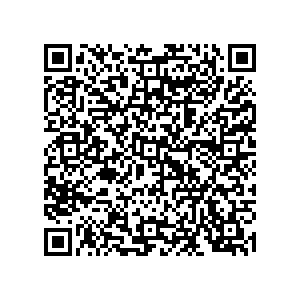
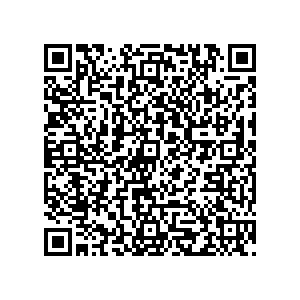
reserveEquipment modified

Changed region(s): [[0.15, 0.12, 0.87, 0.87]]

diff --git a/ISA-project/src/main/java/com/example/ISAproject/model/Reservation.java b/ISA-project/src/main/java/com/example/ISAproject/model/Reservation.java
@@ -14,6 +14,7 @@ import javax.persistence.GenerationType;
 import javax.persistence.Id;
 import javax.persistence.JoinColumn;
 import javax.persistence.JoinTable;
+import javax.persistence.ManyToMany;
 import javax.persistence.ManyToOne;
 import javax.persistence.MapsId;
 import javax.persistence.OneToMany;
@@ -31,18 +32,18 @@ public class Reservation {
 	@Column(name = "status", nullable = false)
 	private ReservationStatus status;
 	
-	@JsonIgnore 
-	@OneToMany
+	//@JsonIgnore 
+	@ManyToMany
 	@JoinTable(name = "reservation_equipment", joinColumns = @JoinColumn(name = "reservation_id", referencedColumnName = "id"),
 		inverseJoinColumns = @JoinColumn(name = "equipment_id", referencedColumnName = "id"))
 	private Set<Equipment> equipment  = new HashSet<Equipment>();
 	
-	@JsonIgnore 
+	//@JsonIgnore 
 	@OneToOne
     @JoinColumn(name = "appointment_id")
 	private Appointment appointment;
 	
-	@JsonIgnore
+	//@JsonIgnore
     @ManyToOne
     @JoinTable(name = "reservation_user", joinColumns = @JoinColumn(name = "reservation_id", referencedColumnName = "id"),
 	inverseJoinColumns = @JoinColumn(name = "user_id", referencedColumnName = "id"))

diff --git a/ISA-project/src/main/java/com/example/ISAproject/service/ReservationService.java b/ISA-project/src/main/java/com/example/ISAproject/service/ReservationService.java
@@ -35,17 +35,15 @@ public class ReservationService {
 	private AppointmentRepository appointmentRepository;
 	
 	
-	public Reservation reserveEquipment(Long equipmentId, Long appointmentId, Long userId) {        
-        Equipment equipment = equipmentRepository.findById(equipmentId).orElse(null);
+	public Reservation reserveEquipment(List<Long> equipmentIds, Long appointmentId, Long userId) {        
+		List<Equipment> equipmentList = equipmentRepository.findAllById(equipmentIds);
         Appointment appointment = appointmentRepository.findById(appointmentId).orElse(null);
         User user = userRepository.findById(userId).orElse(null);
         
         Reservation reservation = new Reservation();
         
         reservation.setStatus(ReservationStatus.PENDING);
-        Set<Equipment> equipmentList = new HashSet<Equipment>();
-        equipmentList.add(equipment);
-        reservation.setEquipment(equipmentList);
+        reservation.setEquipment(new HashSet<>(equipmentList));
         reservation.setAppointment(appointment);
         appointment.setIsFree(false);
         reservation.setUser(user);

diff --git a/ISA-project/src/main/java/com/example/ISAproject/controller/ReservationController.java b/ISA-project/src/main/java/com/example/ISAproject/controller/ReservationController.java
@@ -33,11 +33,11 @@ public class ReservationController {
 	@Autowired
 	private ReservationService reservationService;
 	
-	@PostMapping("reserveEquipment/{equipmentId}/{appointmentId}/{userId}")
-    public ResponseEntity<String> reserveEquipment(@PathVariable Long equipmentId, @PathVariable Long appointmentId,
+	@PostMapping("reserveEquipment/{equipmentIds}/{appointmentId}/{userId}")
+    public ResponseEntity<String> reserveEquipment(@PathVariable List<Long> equipmentIds, @PathVariable Long appointmentId,
             @PathVariable Long userId) {
 		
-		Reservation savedReservation = reservationService.reserveEquipment(equipmentId, appointmentId, userId);
+		Reservation savedReservation = reservationService.reserveEquipment(equipmentIds, appointmentId, userId);
 		
 		try {
 			System.out.println("Thread id: " + Thread.currentThread().getId());

diff --git a/ISA-project/src/main/java/com/example/ISAproject/service/EmailService.java b/ISA-project/src/main/java/com/example/ISAproject/service/EmailService.java
@@ -101,8 +101,11 @@ public class EmailService {
 
 	    QRCodeWriter qrCodeWriter = new QRCodeWriter();
 	    String equipmentDetails = reservation.getEquipment().stream()
-	            .map(Equipment::toString)
-	            .collect(Collectors.joining(","));
+	            .map(equipment -> "Equipment ID: " + equipment.getId() +
+	                    "\nName: " + equipment.getName() +
+	                    "\nType: " + equipment.getType() +
+	                    "\nDescription: " + equipment.getDescription())
+	            .collect(Collectors.joining("\n\n"));
 	    String reservationDetails = "Reservation id: " + reservation.getId() +
 	            "\nStatus: " + reservation.getStatus() +
 	            "\nEquipment: " + equipmentDetails +
